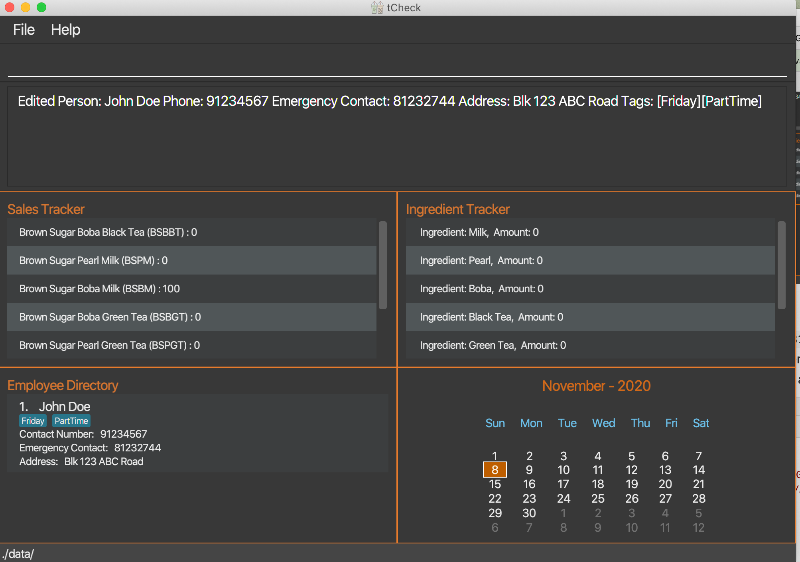
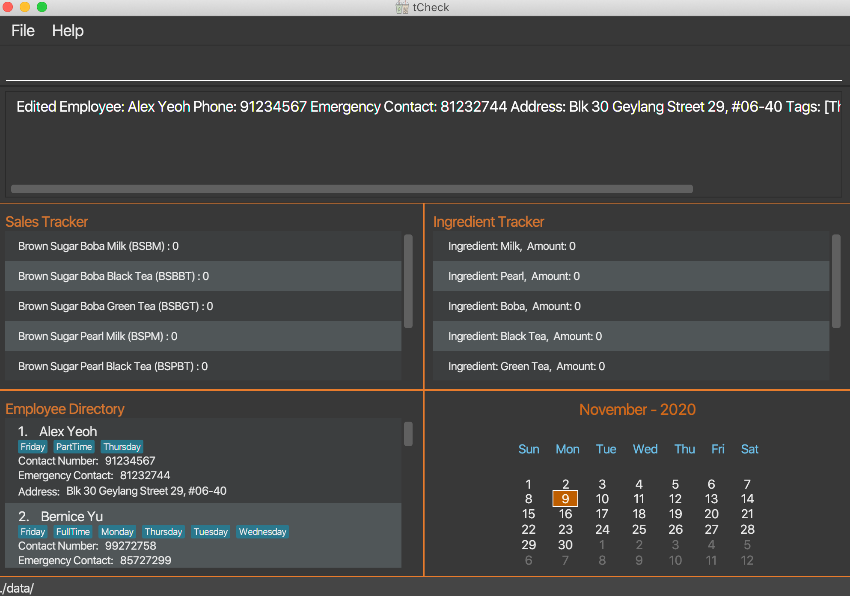
Add beforeedit+editresult png

diff --git a/docs/UserGuide.md b/docs/UserGuide.md
@@ -585,11 +585,11 @@ You can follow these instructions:
 1. Press "Enter" to execute.
 
 Outcome:
-1. The _Result Display_ will show that you edit the employee.=
+1. The _Result Display_ will show that you edit the employee.
 2. All active employees will be listed in the _Main View_.
 
 Before executing:<br>
-![BeforeEditCommandScreenshot](images/BeforeClearCommand.png)
+![BeforeEditCommandScreenshot](images/BeforeEditCommand.png)
 
 
 After executing:<br>
